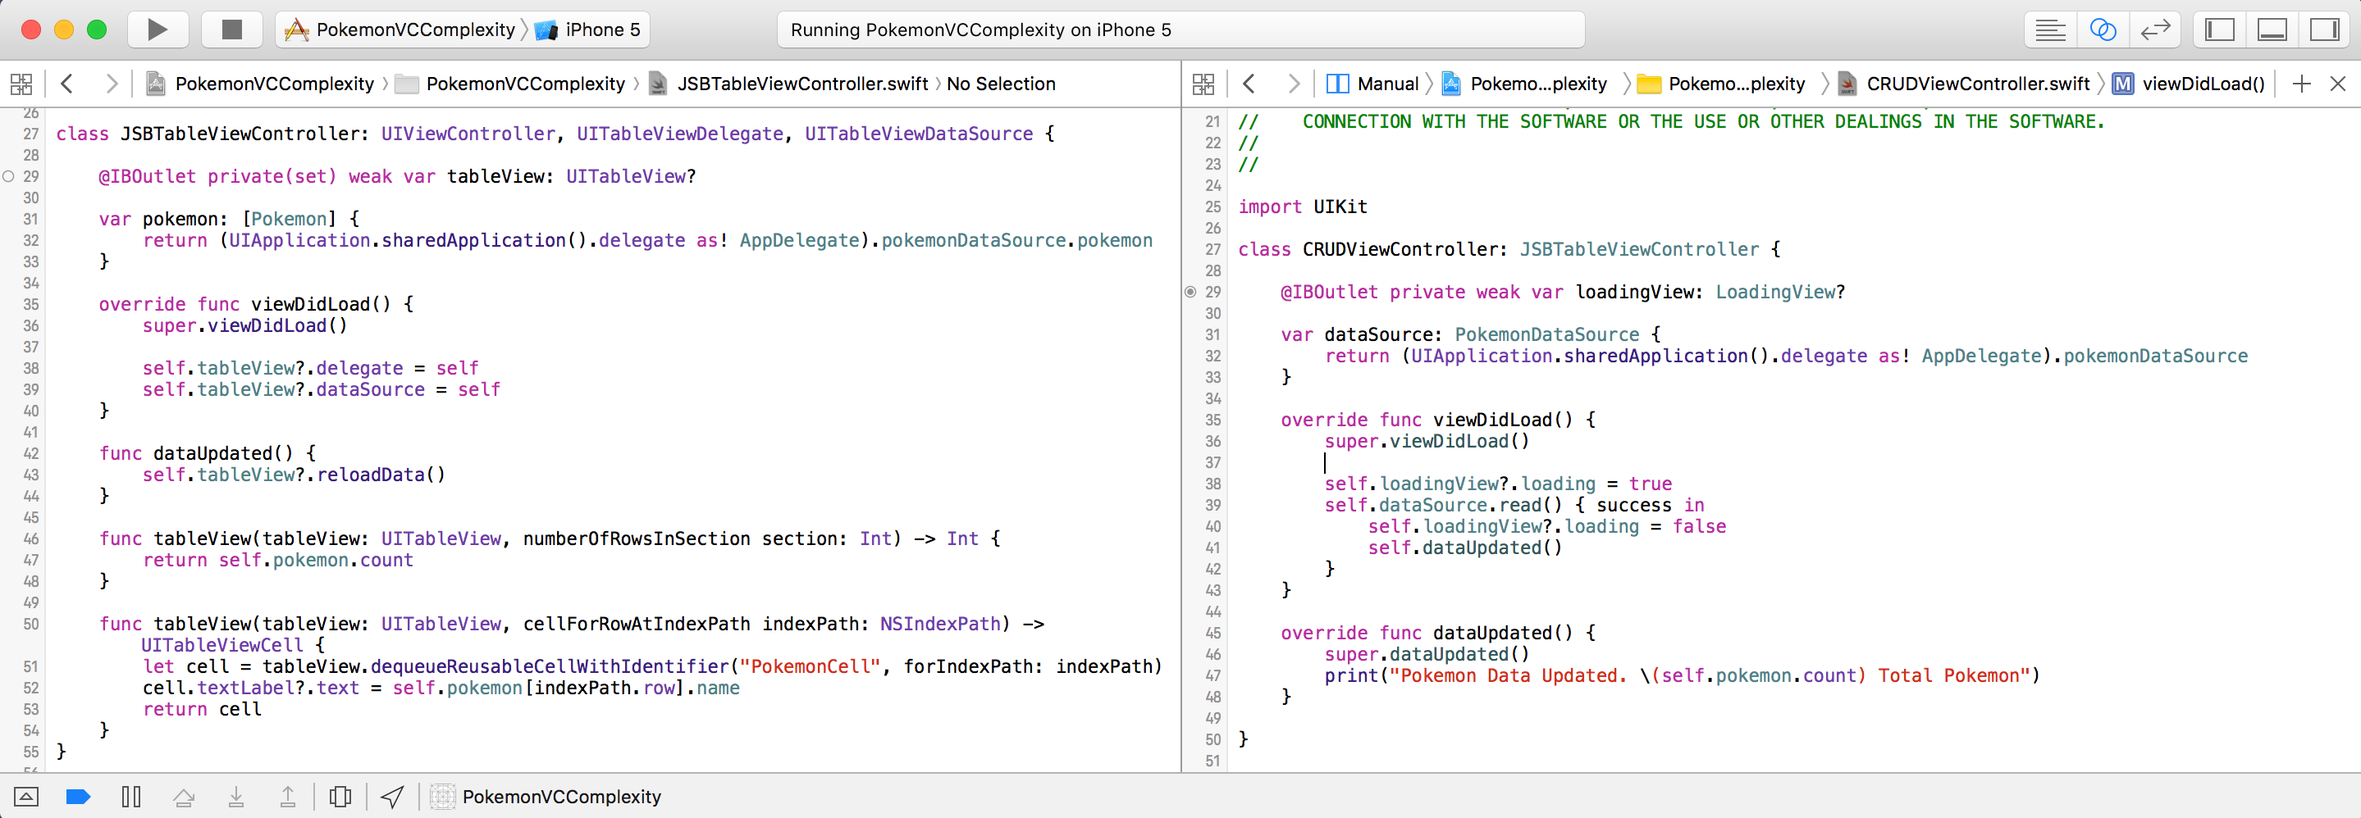
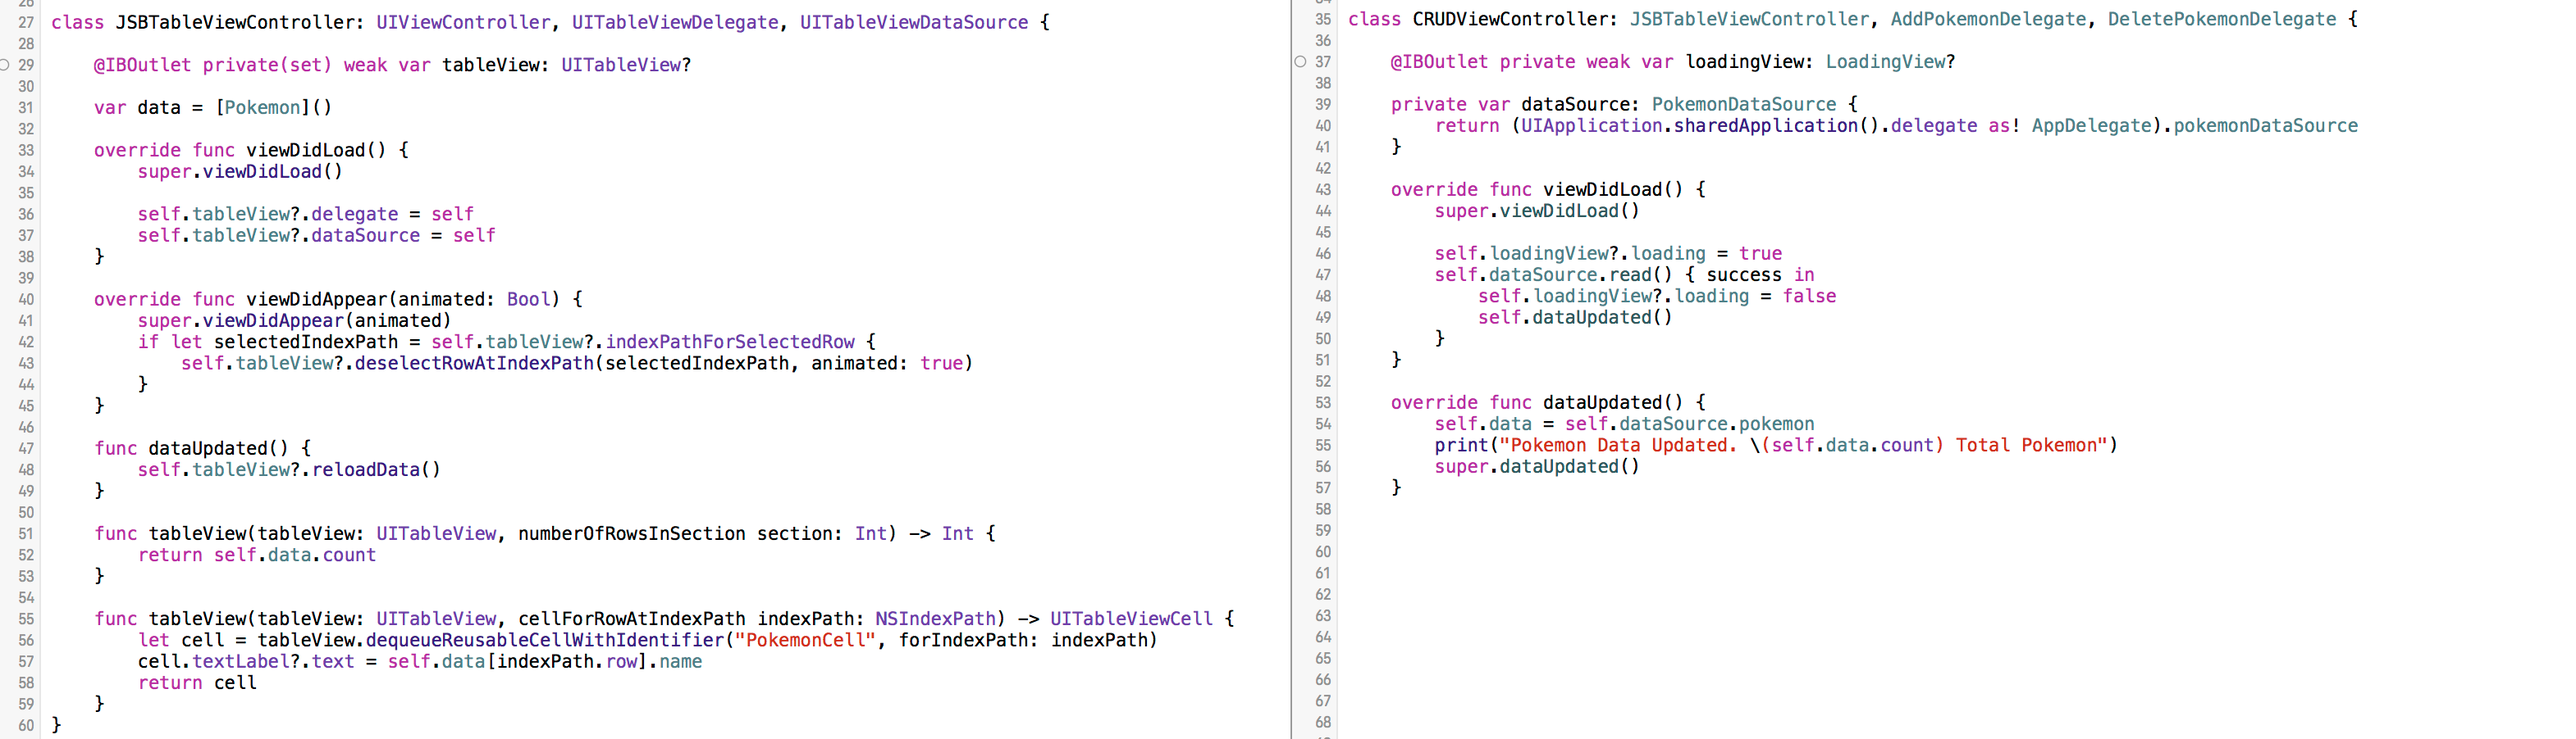
minor code changes

Changed region(s): [[0.0, 0.0, 1.0, 0.9933], [0.5566, 0.745, 0.8659, 0.8381]]

diff --git a/PokemonVCComplexity/PokemonVCComplexity/CRUDViewController.swift b/PokemonVCComplexity/PokemonVCComplexity/CRUDViewController.swift
@@ -35,8 +35,8 @@ protocol DeletePokemonDelegate: class {
 class CRUDViewController: JSBTableViewController, AddPokemonDelegate, DeletePokemonDelegate {
     
     @IBOutlet private weak var loadingView: LoadingView?
-    
-    var dataSource: PokemonDataSource {
+        
+    private var dataSource: PokemonDataSource {
         return (UIApplication.sharedApplication().delegate as! AppDelegate).pokemonDataSource
     }
     
@@ -51,10 +51,10 @@ class CRUDViewController: JSBTableViewController, AddPokemonDelegate, DeletePoke
     }
     
     override func dataUpdated() {
+        self.data = self.dataSource.pokemon
+        print("Pokemon Data Updated. \(self.data.count) Total Pokemon")
         super.dataUpdated()
-        print("Pokemon Data Updated. \(self.pokemon.count) Total Pokemon")
     }
-    
     
     func viewController(viewController: UIViewController, addPokemonWithName name: String, URL: NSURL) {
         let newPokemon = Pokemon(name: name, URL: URL)
@@ -70,3 +70,19 @@ class CRUDViewController: JSBTableViewController, AddPokemonDelegate, DeletePoke
     }
     
 }
+
+
+
+
+
+
+
+
+
+
+
+
+
+
+
+

diff --git a/PokemonVCComplexity/PokemonVCComplexity/JSBTableViewController.swift b/PokemonVCComplexity/PokemonVCComplexity/JSBTableViewController.swift
@@ -28,9 +28,7 @@ class JSBTableViewController: UIViewController, UITableViewDelegate, UITableView
     
     @IBOutlet private(set) weak var tableView: UITableView?
     
-    var pokemon: [Pokemon] {
-        return (UIApplication.sharedApplication().delegate as! AppDelegate).pokemonDataSource.pokemon
-    }
+    var data = [Pokemon]()
     
     override func viewDidLoad() {
         super.viewDidLoad()
@@ -51,12 +49,29 @@ class JSBTableViewController: UIViewController, UITableViewDelegate, UITableView
     }
     
     func tableView(tableView: UITableView, numberOfRowsInSection section: Int) -> Int {
-        return self.pokemon.count
+        return self.data.count
     }
     
     func tableView(tableView: UITableView, cellForRowAtIndexPath indexPath: NSIndexPath) -> UITableViewCell {
         let cell = tableView.dequeueReusableCellWithIdentifier("PokemonCell", forIndexPath: indexPath)
-        cell.textLabel?.text = self.pokemon[indexPath.row].name
+        cell.textLabel?.text = self.data[indexPath.row].name
         return cell
     }
 }
+
+
+
+
+
+
+
+
+
+
+
+
+
+
+
+
+

diff --git a/PokemonVCComplexity/PokemonVCComplexity/SegueViewController.swift b/PokemonVCComplexity/PokemonVCComplexity/SegueViewController.swift
@@ -43,7 +43,7 @@ class SegueViewController: CRUDViewController {
             let indexPath = self.tableView!.indexPathForCell(sender as! UITableViewCell)!
             let destVC = segue.destinationViewController as? DetailViewController
             destVC?.delegate = self
-            destVC?.pokemonIndex = PokemonIndex(indexPath: indexPath, pokemon: self.pokemon[indexPath.row])
+            destVC?.pokemonIndex = PokemonIndex(indexPath: indexPath, pokemon: self.data[indexPath.row])
         case .NewModalSegue:
             let navVC = segue.destinationViewController as? UINavigationController
             let destVC = navVC?.viewControllers.first as? AddViewController
